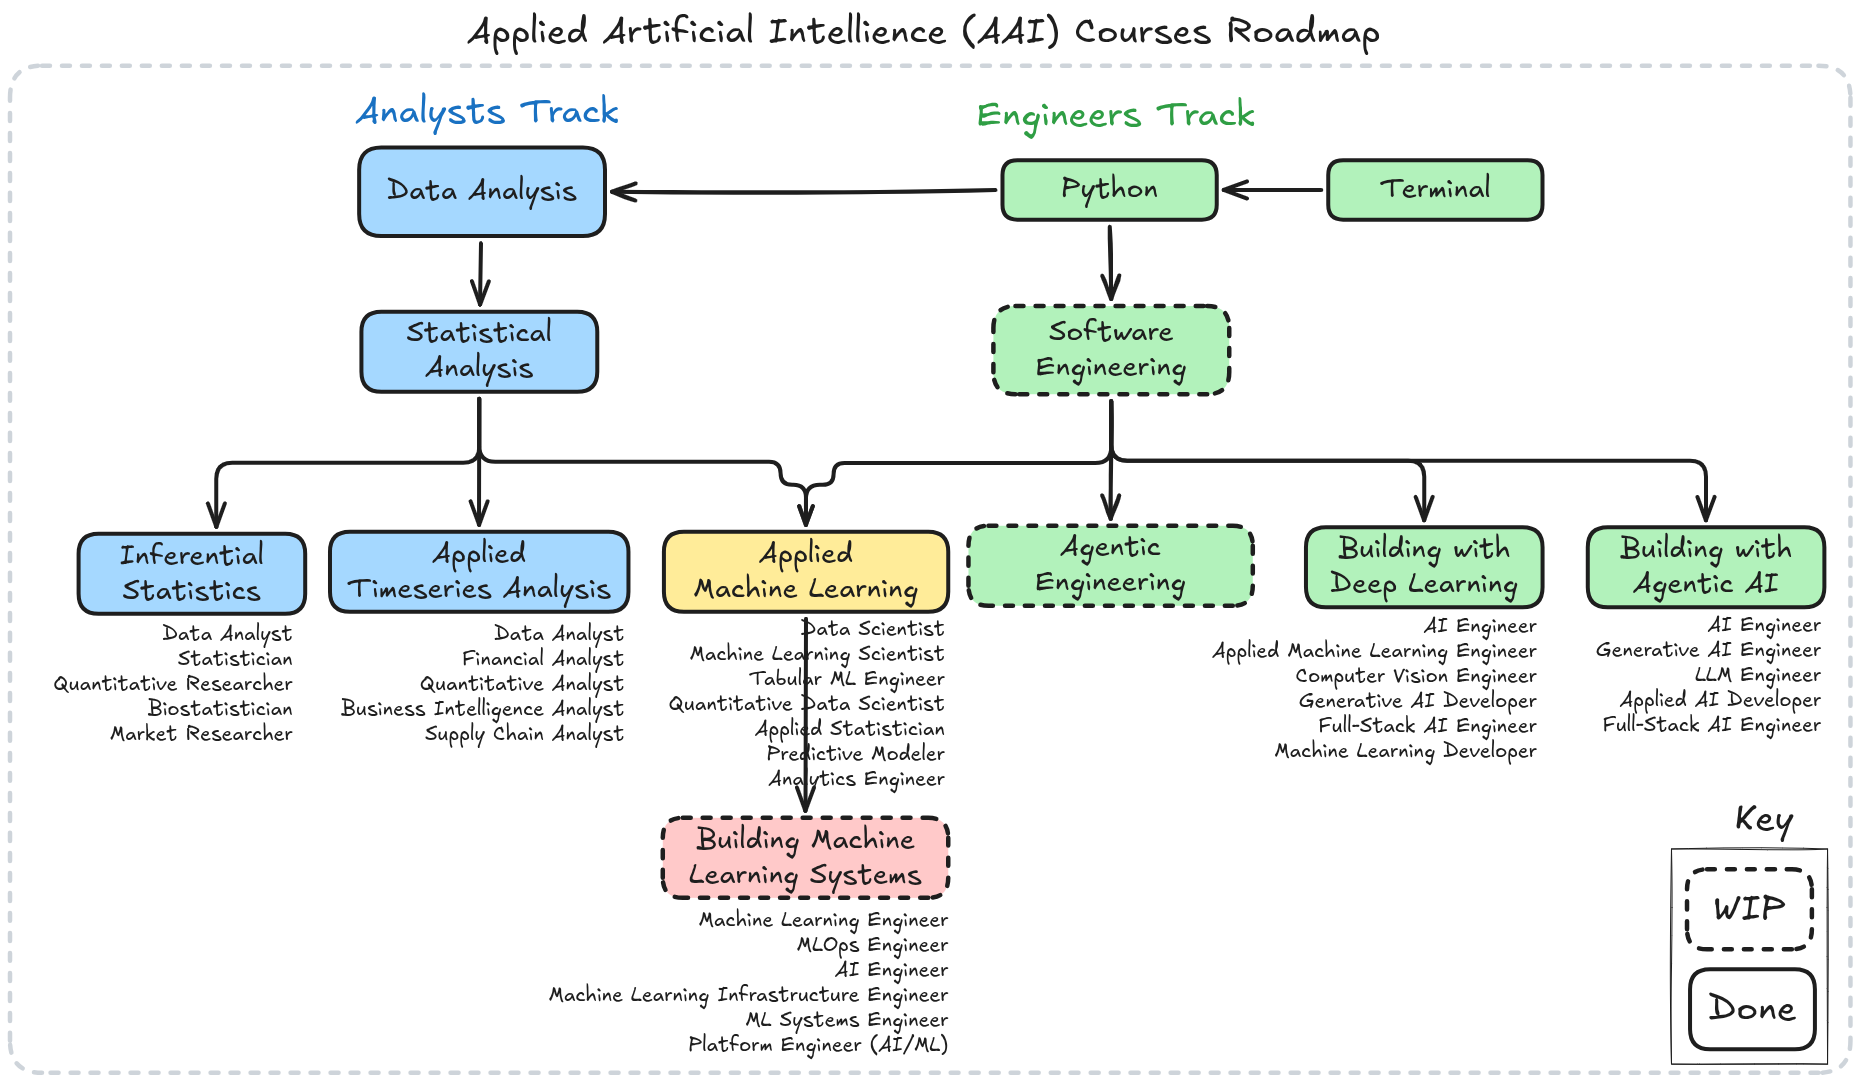
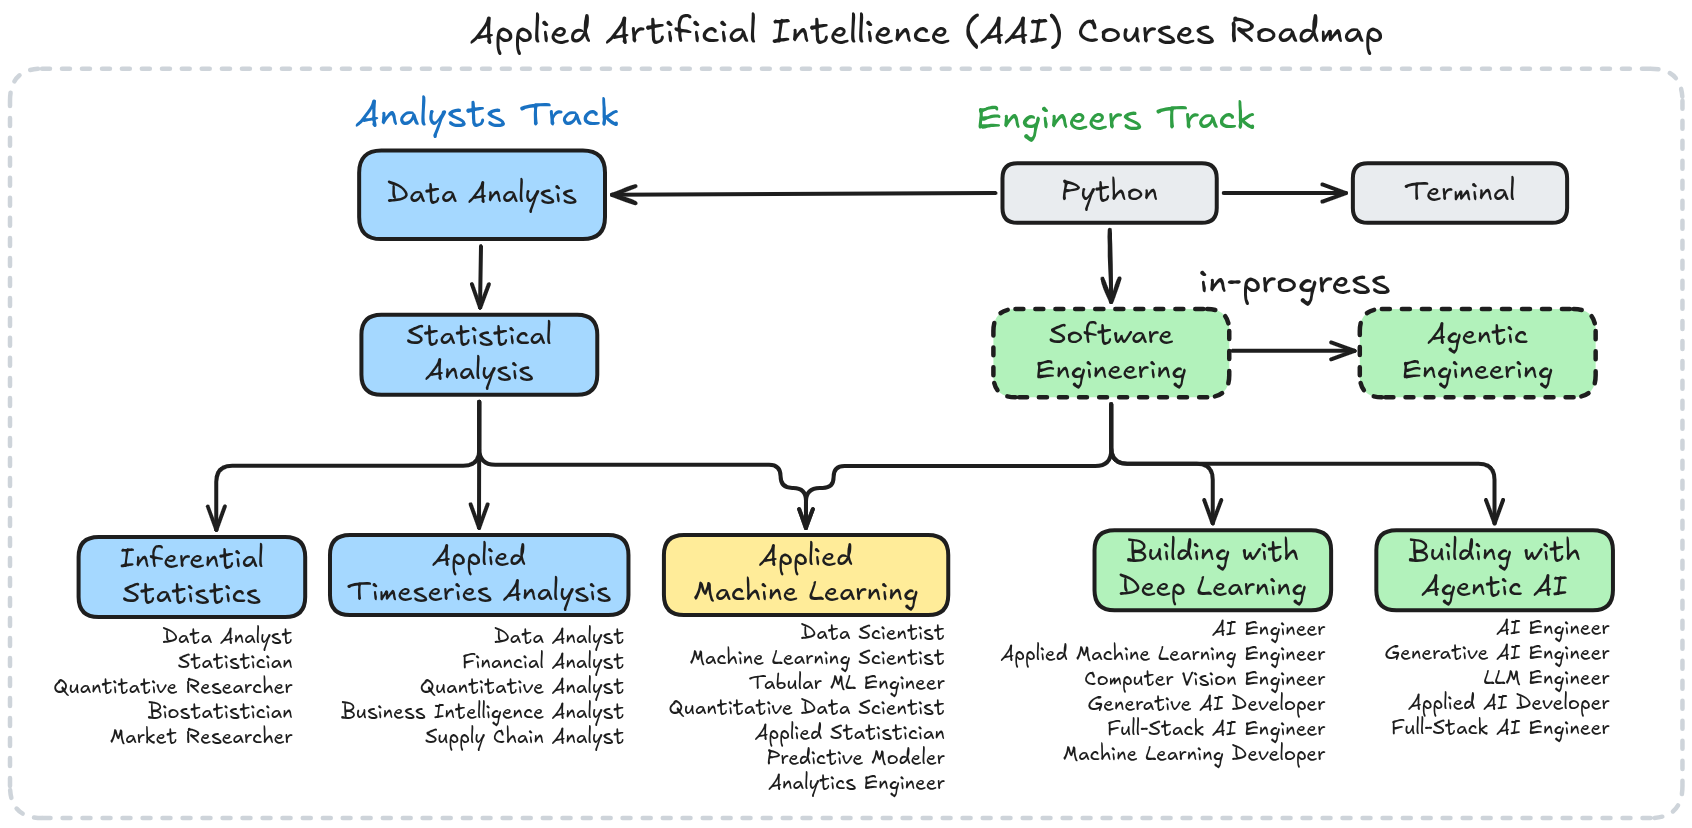
docs: update README and roadmap

diff --git a/README.md b/README.md
@@ -1,49 +1,24 @@
-# Applied Artifical Intelligence (AAI)
+# Applied Artifical Intelligence (AAI) Roadmap
 
-## Roadmap
-
-![AAI Roadmap](assets/aai_roadmap.png)
-
-The roadmap was design with career paths in mind, to help you land a job (Insha' Allah).
-
-You can read this roadmap from the end (bottom to top) if you want to start from **job roles**; going back to the required courses that help you learn the necessary knowlede, skills, and mindset; to get your foot in the door.
-
-### Corresponding **Job Titles**
-
-Here we just list them down (as shown in the fiure above).
-
-**Analysts Track**:
-
-1. **Inferential Statistics** — Data Analyst, Statistician, Quantitative Researcher, Biostatistician, Market Researcher
-2. **Applied Timeseries Analysis** — Data Analyst, Financial Analyst, Quantitative Analyst, Business Intelligence Analyst, Supply Chain Analyst
-
-**Engineers Track**:
-
-1. **Building with Deep Learning** — AI Engineer, Applied Machine Learning Engineer, Computer Vision Engineer, Generative AI Developer, Full-Stack AI Engineer, Machine Learning Developer
-1. **Building with Agentic AI** — AI Engineer, Generative AI Engineer, LLM Engineer, Applied AI Developer, Full-Stack AI Engineer
-
-**Mid-level**:
-
-1. **Applied Machine Learning** — Data Scientist, Machine Learning Scientist, Tabular ML Engineer, Quantitative Data Scientist, Applied Statistician, Predictive Modeler, Analytics Engineer
-
-**Senior-level**:
-
-1. **Building Machine Learning Systems** — Machine Learning Engineer, MLOps Engineer, AI Engineer, Machine Learning Infrastructure Engineer, ML Systems Engineer, Platform Engineer (AI/ML)
-
-## Course Material
-
-PDF material can be downloaded from the [releases page](https://github.com/HassanAlgoz/AAI/releases).
-
-Link to introductory slides: [introduction to the Applied Artificial Intelligence Roadmap](https://github.com/HassanAlgoz/AAI/releases/latest/download/Intro_01_bootcamp_intro.pdf).
+> Knowledge is power.
 
 ## Pre-requisites
 
 Both tracks presume the following about the learner to get started:
 
-+ **English B2 level**: IELTS 6.0 or TOEFL 4.0 (71).
-+ Algorithmic thinking and problem-solving skills.
-+ Good foundation in programming.
-+ Working laptop with internet access.
++ **English B2 level**: IELTS 6.0 or TOEFL 4.0 (71)
++ Problem-solving mindset
++ Working laptop with internet access
+
+## Roadmap
+
+![AAI Roadmap](assets/aai_roadmap.png)
+
+The floating text at the end of each path, is the **job roles** you can apply for once you are done (Insha' Allah).
+
+## Course Material
+
+PDF material can be downloaded from the [releases page](https://github.com/HassanAlgoz/AAI/releases).
 
 ## Core
 
@@ -53,19 +28,11 @@ Shared foundation for both tracks.
 
 Programming foundations in Python (external material).
 
-Time Estimate: self-paced (about 2-5 weeks; take your time).
-
 ### 2. [Terminal](/courses/Terminal/)
 
-Understanding how to command your computer is essential for using it effectively and responsibly.
-
-Command and conquer your machine. Fear not the black box. Protect yourself from malicious code.
-
-Time Estimate: 1 day x 3 hours.
+Understanding how to command your computer is essential for using it effectively and responsibly. Command and conquer your machine. Fear not the black box. Protect yourself from malicious code.
 
 ## Analysts Track
-
-Time Estimate: 5-6 weeks at 30 hrs/week.
 
 ### 1. [Data Analysis](/courses/Data_Analysis/)
 
@@ -76,8 +43,6 @@ Fundamentals of data wrangling and analysis in Python via pandas, matplotlib and
 - M3. Data Vizualization
 - M4. Timeseries Analysis
 
-Time Estimate: 5 days x 6 hours.
-
 ### 2. [Statistical Analysis](/courses/Statistical_Analysis/)
 
 Calculate, analyze, visualize, and extract insights from data. Formulate hypotheses and draw conclusions.
@@ -86,8 +51,6 @@ Calculate, analyze, visualize, and extract insights from data. Formulate hypothe
 - M2. Univariate Analysis
 - M3. Bivariate Analysis
 
-Time Estimate: 5 days x 6 hours.
-
 ---
 
 ### 3.A [Inferential Statistics](/courses/Inferential_Statistics/)
@@ -95,8 +58,6 @@ Time Estimate: 5 days x 6 hours.
 Systematically generalize results from drawn samples onto a target population.
 
 - M1. Inferential Statistics
-
-Time Estimate: 2 days x 6 hours.
 
 ### 3.B [Applied Timeseries Analysis](/courses/Timeseries/)
 
@@ -110,42 +71,19 @@ Visualize, analyze, and characterize time series -- then build forecasting model
 - M6. Model Evaluation and Tuning
 - M7. Judgemental Forecasting
 
-Time Estimate: 5 days x 6 hours.
+### 4. [Applied Machine Learning](/courses/Machine_Learning/)
+
+Build reliable predictive modeling pipelines, debug its issues, evaluate and compare alternatives.
+
+- M1. Supervised ML: Regression and Classification
+- M2. Estimating and Improving Model Generalization Performance
+- M3. Pipeline: Building Reliable Predictive Models
+- M4. Decision Trees and Ensembles
+- M5. AutoML
 
 ## Engineers Track
 
-Time Estimate: 4-5 weeks at 30 hrs/week.
-
-Path: Software Engineering → {Agentic Engineering, Building with Deep Learning, Building with Agentic AI, Applied Machine Learning}.
-
-### 1. [Software Engineering](/courses/Software_Engineering/)
-
-Software design, systems, and construction fundamentals for building reliable applications.
-
-Time Estimate: TBD.
-
-### 2.A [Agentic Engineering](/courses/Agentic_Engineering/)
-
-Work effectively and efficiently with AI in software engineering projects.
-
-*Depends on*: Software Engineering.
-
-*Learning Outcomes*:
-
-+ Differentiate between Vibe Coding and Agentic Engineering.
-+ Differentiate between Models and Harnesses.
-+ Understand the tradeoffs between probabilistic and deterministic methods of editor features, and when to use each for the best results.
-+ Understand when to use Ask, Plan, Agent, Multi-task, and Debugging Modes of Coding Agents.
-+ Make your own codebases agentic and ready for coding agents.
-+ Understand the limitations of AI and the necessity for Software Engineering Fundamentals.
-
-*Modules*:
-
-- M1. Pushing the Limits of AI Agents
-
-Time Estimate: 5 days x 6 hours.
-
-### 2.B [Building with Deep Learning](/courses/Building_with_Deep_Learning/)
+### 1. [Building with Deep Learning](/courses/Building_with_Deep_Learning/)
 
 Select, use, compose, fine-tune, and deploy open-weight deep learning models on various unstructured data tasks.
 
@@ -155,9 +93,7 @@ Select, use, compose, fine-tune, and deploy open-weight deep learning models on 
 - M2. Large Language Models
 - M3. Applied Computer Vision
 
-Time Estimate: 5 days x 6 hours.
-
-### 2.C [Building with Agentic AI](/courses/Building_with_Agentic_AI/)
+### 2. [Building with Agentic AI](/courses/Building_with_Agentic_AI/)
 
 Develop, debug, evaluate, deploy, and monitor LLM-driven AI Agents to automate tasks involving unstructured data.
 
@@ -169,54 +105,6 @@ Develop, debug, evaluate, deploy, and monitor LLM-driven AI Agents to automate t
 - M4. Deployment
 - M5. Retrieval Augmented Generation (RAG)
 
-Time Estimate: 10 days x 6 hours.
+### 3. [Agentic Engineering](/courses/Agentic_Engineering/)
 
----
-
-## Level 2 $\rArr$ Level 3 Courses
-
-This track is a merge that requires both engineering and analysis.
-
-### 1. [Applied Machine Learning](/courses/Machine_Learning/)
-
-Build reliable predictive modeling pipelines, debug its issues, evaluate and compare alternatives.
-
-- M1. Supervised ML: Regression and Classification
-- M2. Estimating and Improving Model Generalization Performance
-- M3. Pipeline: Building Reliable Predictive Models
-- M4. Decision Trees and Ensembles
-- M5. AutoML
-
-Time Estimate: 10 days x 6 hours.
-
-### 2. [Building Machine Learning Systems](/courses/Building_Machine_Learning_Systems/)
-
-Design and operate production machine learning systems (advanced).
-
-*Depends on*: Applied Machine Learning.
-
-Time Estimate: TBD.
-
----
-
-## AI Policy
-
-Good use of AI means it **augments, rather than replaces, thinking** — used for feedback, hints, explanations, practice, or extra resources, while **you still do the core reasoning, writing, and problem-solving**.
-
-**Forbidden use**: treating course material as "work" and AI as an assistant to get it done "faster" or "easier" or "better". Don't mix productivity (output) with learning (you).
-
-See [the research and findings that made up our AI Policy](docs/ai_policy.md).
-
-## Assigned Exercises
-
-- Due Thursday 11:59 PM (end of same week).
-- Work must have been pushed to GitHub.
-- Marked as done (in Google Classroom) before then.
-- Commit history **MUST** follow the [proof-of-work](/docs/proof-of-work.md) system.
-
----
-
-## Contribution (Course Development)
-
-- Local dev unchanged: `just compile` / `just watch` still produce ignored local PDFs.
-- To publish: `git tag v1.0 && git push origin v1.0` -> workflow builds and attaches PDFs to the v1.0 release, which becomes latest.
+Learn how the tools and practices to work with coding agents.
